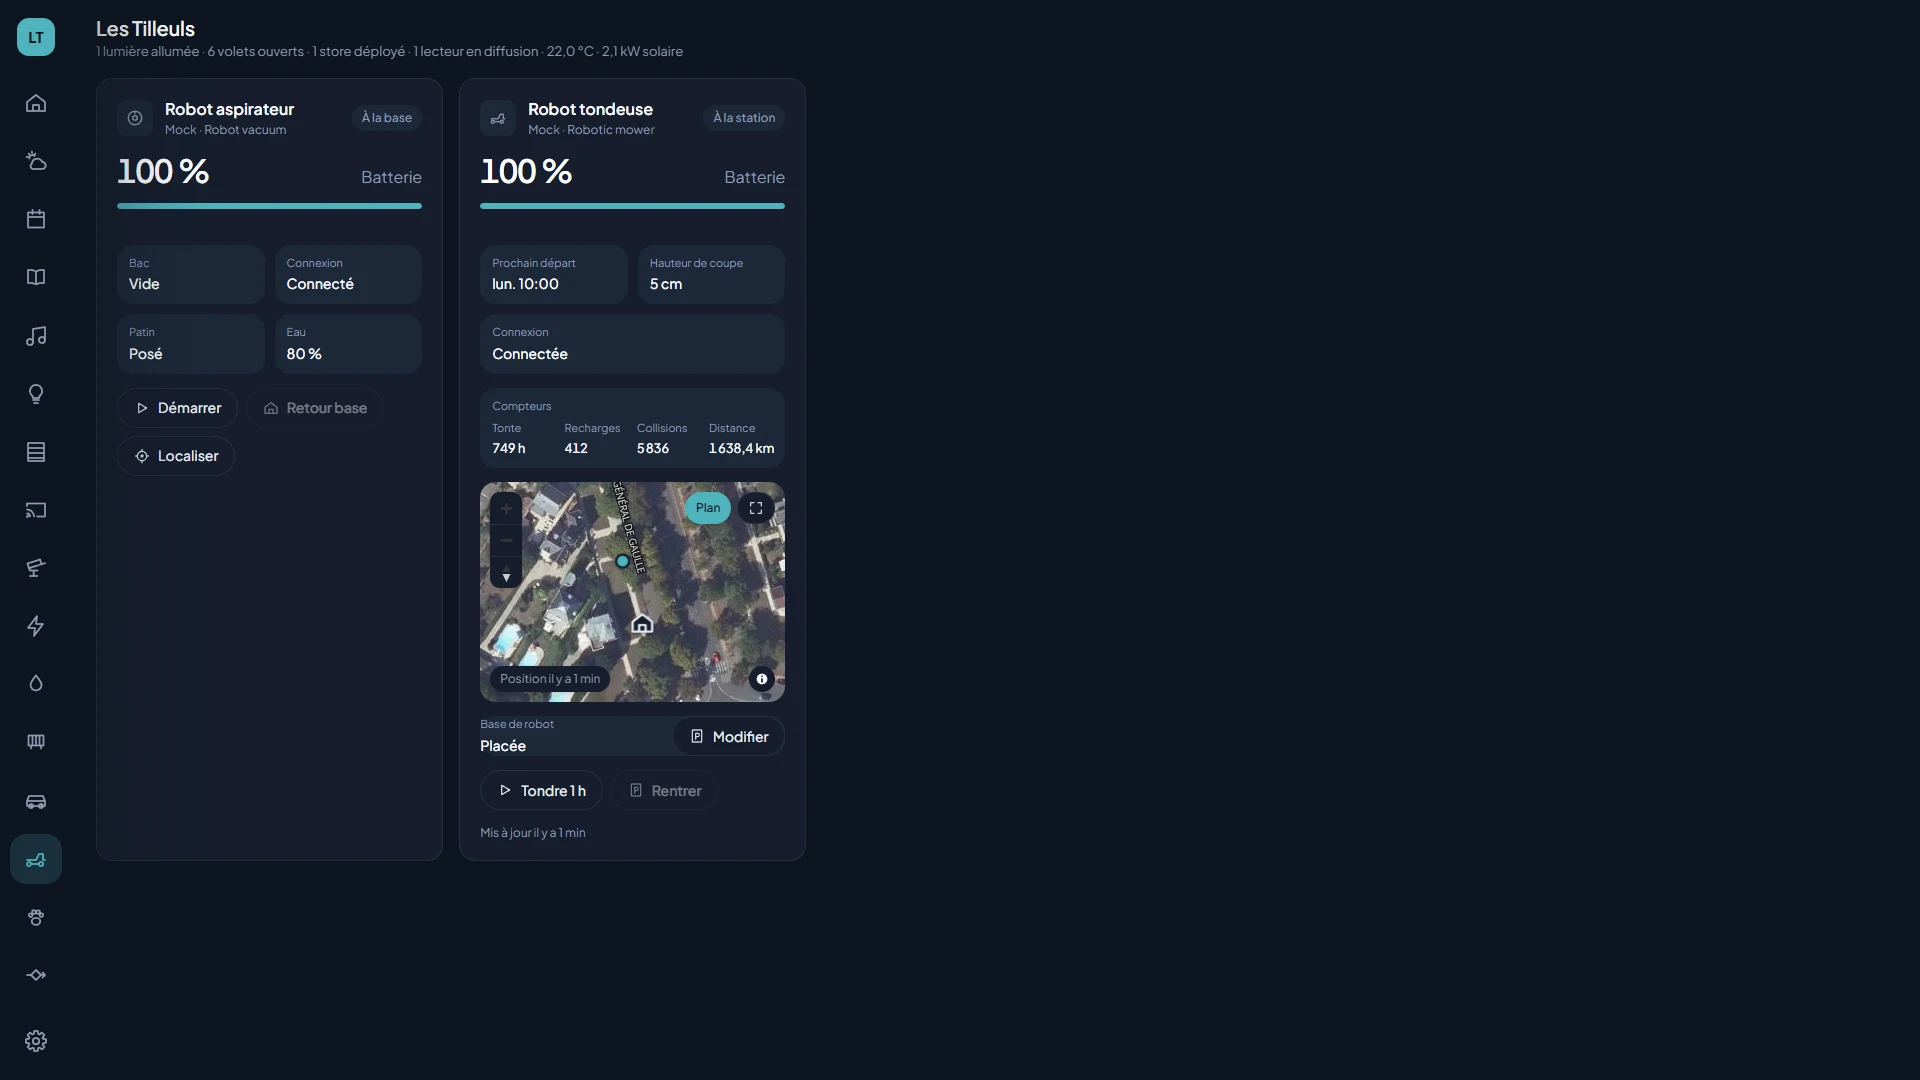
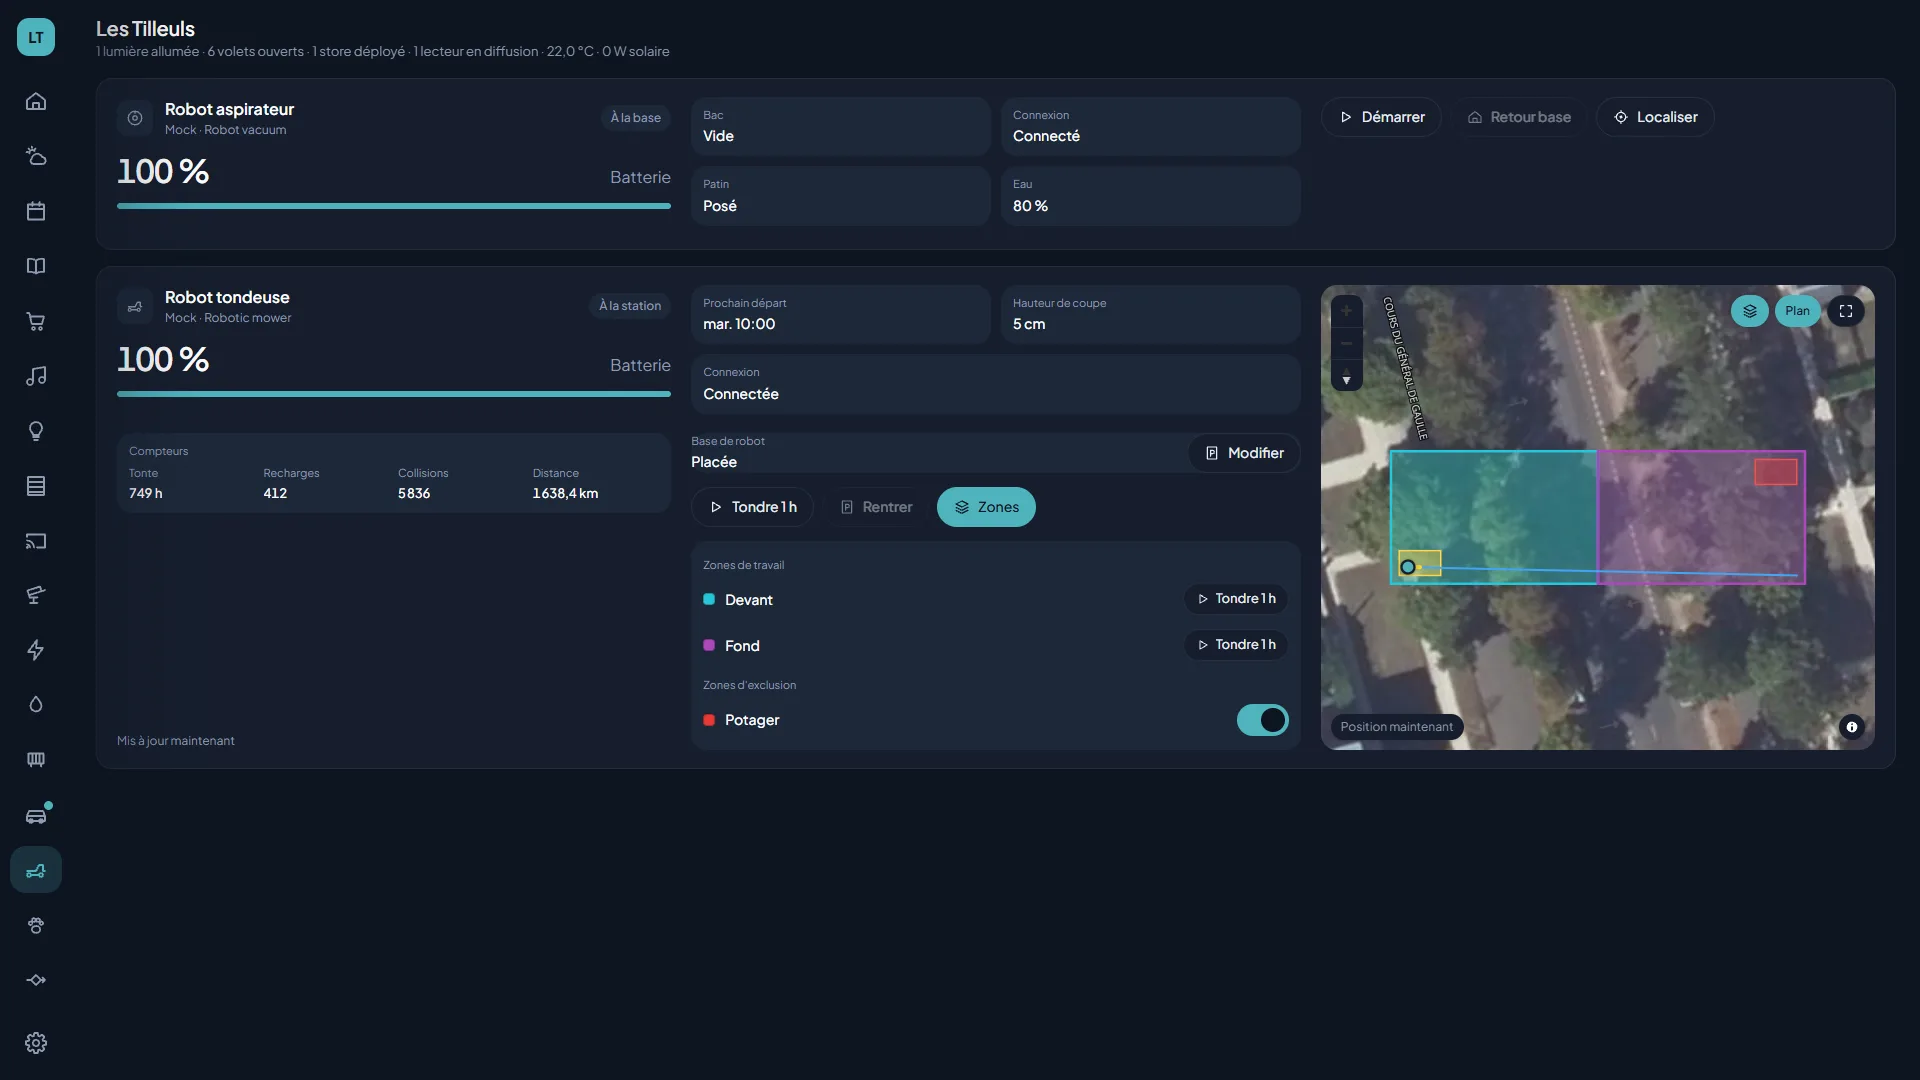
Tondeuse : README et fiche du plugin à jour, nouvelle capture de la vue Robots.
La fiche Automower dit ce que le plugin fait désormais : la tâche en cours (« En route vers… »,
« Tonte · … », « Retour à la station »), les zones (tondre une zone de travail, interrupteur des
zones d'exclusion, zones tracées dans l'appli du constructeur) et la carte du terrain, sur la photo
satellite avec ses calques et son décalage, et peinte sur le terrain 3D. Les limites ne disent plus
que la carte n'est pas dessinée ; elles disent que les zones ne se créent que dans l'appli, que le
réensauvagement ne s'active pas à distance, et que la carte en 3D dépend du calage de la maison. La
ligne Robots du README suit.

Capture refaite sur la simulation (aucun appareil réel), 1920×1080 en WebP, thème sombre : la carte
tondeuse en mise en page horizontale, le panneau Zones ouvert et la carte du terrain cadrée sur la
photo. Prise par Chrome sans interface, horloge non réglée (en-tête « 0 W solaire »).

diff --git a/docs/plugins/automower.md b/docs/plugins/automower.md
@@ -6,7 +6,7 @@
 | **Appareils** | robots tondeuses (`mower`), un par robot |
 | **Connexion** | **cloud Husqvarna** (Automower Connect API, officielle et gratuite) : il n'existe rien en local |
 | **Compte** | une application créée sur `developer.husqvarnagroup.cloud` avec le compte de l'appli Automower Connect : une clé et un secret, sans consentement dans un navigateur |
-| **Vues** | Robots, Maison (marqueur du robot en 3D), Réglages → Plugins |
+| **Vues** | Robots, Maison (marqueur du robot, zones et carte du terrain peinte en 3D), Réglages → Plugins |
 
 ![Vue Robots](../screenshots/robots.webp)
 
@@ -21,6 +21,9 @@
 - **Compteurs** de vie : temps de tonte, recharges, collisions, distance.
 - **Journal du robot** : les derniers messages, avec leur position quand elle est connue, posés comme incidents sur la carte.
 - **Commandes** : **Lancer la tonte** (reprend le planning du robot) ou **Tondre 1 h**, pause, **Rentrer** (jusqu'au prochain créneau ou jusqu'à nouvel ordre).
+- **Ce qu'il fait, et où** : « En route vers Zone sud », « Tonte · Zone avant », « Retour à la station », dans la carte Robots et le panneau du robot dans la vue Maison.
+- **Zones** (modèles qui les gèrent, par exemple le 435X AWD) : bouton **Zones** de la vue Robots et bloc « Zones du robot » du panneau 3D. **Tondre 1 h** sur tout le terrain ou sur une zone de travail, et un interrupteur par **zone d'exclusion**. Les zones se tracent dans l'appli du constructeur ; l'API ne sait ni les créer ni les redessiner.
+- **Carte du terrain** : le terrain relevé par le robot, ses zones de travail (une couleur chacune, la même que dans le panneau), ses zones d'exclusion et de réensauvagement, les câbles guides et la station, posés sur la photo satellite de la vue Robots. Un menu de calques choisit ce qui s'affiche ; un décalage réglable recale la carte sur la photo. Dans la vue Maison, la même carte se peint sur le terrain 3D, zone par zone.
 - **Temps réel** : le constructeur pousse les changements par un flux d'événements, sans consommer de requêtes.
 
 ## Connexion
@@ -54,7 +57,9 @@ Si elle s'écarte du portail (le portail fait foi), la caler avec `AUTOMOWER_QUO
 ## Limites
 
 - Le robot écrit ses heures (prochain départ, erreur) en heure locale : si `AUTOMOWER_TIMEZONE` est faux, elles sont décalées.
-- La carte du robot (zones de travail, zones interdites) n'est pas dessinée, et le câble périphérique n'est pas publié par l'API.
+- Les zones se créent et se redessinent dans l'appli du constructeur seulement. Une zone de **réensauvagement** s'affiche mais ne s'active pas à distance (l'API la refuse).
+- La carte du terrain se pose par la **station** du robot sur sa base, posée dans la maison. Son exactitude dans la 3D dépend du calage de la maison sur le monde (origine et cap).
+- La carte est relue à la demande (2 requêtes), puis gardée en mémoire jusqu'à un changement de zones ou 24 h ; le câble périphérique n'est pas publié par l'API.
 - Pas encore de réglage de la hauteur de coupe ni des phares, ni de confirmation d'une erreur à distance : à faire dans l'appli du constructeur.
 - Une erreur comme « No loop signal » ne se lève pas à distance.
 - Le GPS est un récepteur grand public (bruit de 2 à 3 m) ; le robot lui-même annonce une position toutes les 30 secondes environ.

diff --git a/README.md b/README.md
@@ -213,7 +213,7 @@ Mise en page en grand écran (paysage) en trois colonnes : **rail** à gauche, *
 | **Eau** | Station de filtration, débit, consommables, historique. |
 | **Chauffage** | Zones et machine (pompe à chaleur), historique de fonctionnement. |
 | **Véhicules** | Charge, carte (plan / satellite), réveil, limite de charge, carrosserie 3D. |
-| **Robots** | Tondeuse (GPS, journal, quota) et aspirateur (serpillière selon capacités). |
+| **Robots** | Tondeuse (GPS, tâche en cours, zones à tondre ou à exclure, carte du terrain sur la photo et dans la 3D, journal, quota) et aspirateur (serpillière selon capacités). |
 | **Animaux** | Mangeoires et fontaines PetKit : repas, distribution, eau, consommables. |
 | **TENS** | Électrostimulateur actiTENS en Bluetooth, depuis le navigateur ; n'apparaît que sur les postes où il est activé. |
 | **Automatisations** | Règles « Quand / Sauf si / Alors » (voir plus bas). |
